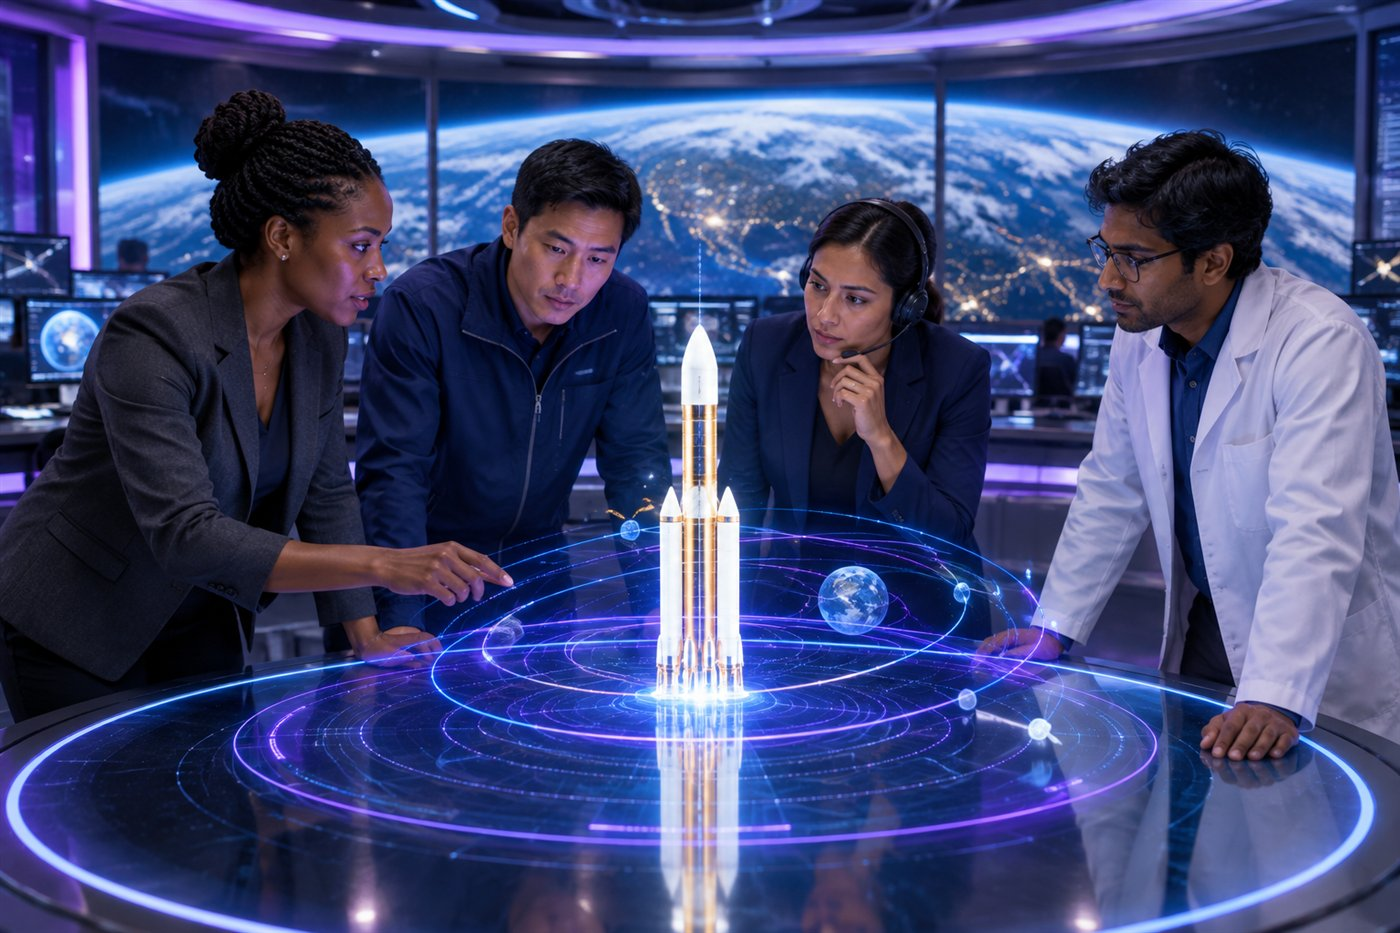
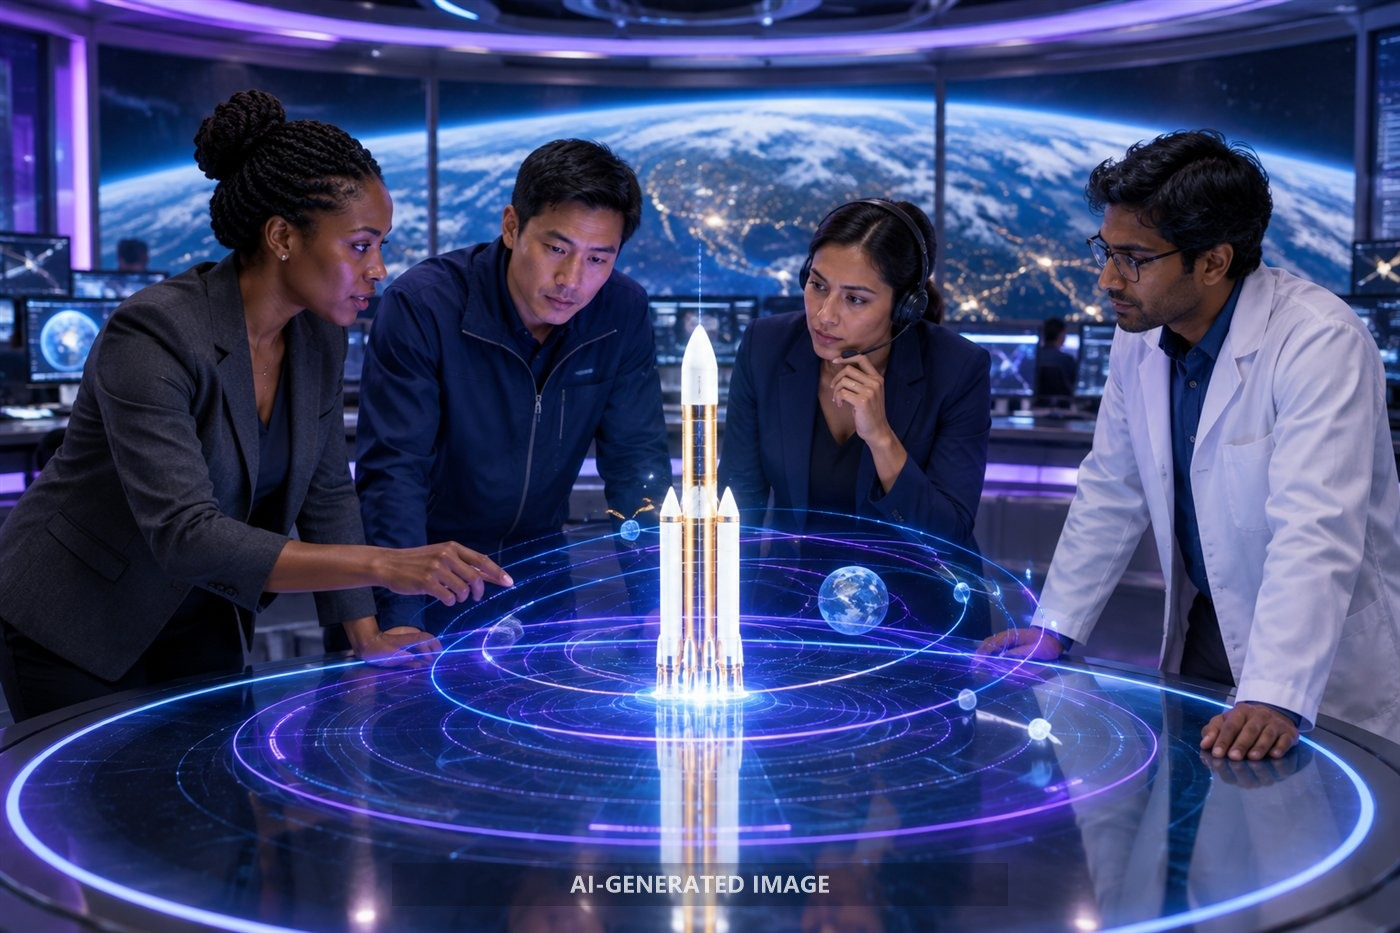
Add subtle image watermarks and credits

Changed region(s): [[0.3993, 0.9014, 0.6143, 0.9946]]

diff --git a/src/styles/crew.css b/src/styles/crew.css
@@ -63,6 +63,20 @@ button.role-card:hover .rc-photo img,
   height: 45%;
   background: linear-gradient(180deg, transparent, rgba(8, 8, 23, 0.95));
 }
+.rc-photo::before,
+.mp-hero::after {
+  content: "AI-generated image";
+  position: absolute;
+  z-index: 3;
+  top: 10px;
+  left: 10px;
+  padding: 3px 6px;
+  border-radius: 4px;
+  background: rgba(8, 8, 23, 0.55);
+  color: rgba(255, 255, 255, 0.8);
+  font: 500 10px var(--font-mono);
+  pointer-events: none;
+}
 .rc-badge {
   position: absolute;
   z-index: 1;
@@ -277,6 +291,11 @@ code {
   border-radius: 50%;
   object-fit: cover;
 }
+.room-chip:has(img)::after {
+  content: "AI image";
+  font-size: 0.6rem;
+  color: rgba(255, 255, 255, 0.7);
+}
 
 /* Crew panels */
 .crew-strip .crew-list,
@@ -381,6 +400,26 @@ code {
   object-fit: cover;
   border: 2px solid var(--rc);
   animation: crew-pulse 1.1s ease-in-out infinite;
+}
+.ai-image-thumb {
+  position: relative;
+  flex-shrink: 0;
+}
+.avatar::after,
+.ai-image-thumb::after {
+  content: "AI image";
+  position: absolute;
+  z-index: 1;
+  left: 50%;
+  bottom: 1px;
+  transform: translateX(-50%);
+  padding: 1px 3px;
+  border-radius: 3px;
+  background: rgba(8, 8, 23, 0.65);
+  color: rgba(255, 255, 255, 0.8);
+  font: 500 8px var(--font-mono);
+  white-space: nowrap;
+  pointer-events: none;
 }
 .wait-head h2 {
   margin: 0 0 4px;

diff --git a/src/ui/screens/missionControl.ts b/src/ui/screens/missionControl.ts
@@ -400,7 +400,7 @@ export function missionControl(): HTMLElement {
           "div",
           { class: "mc-modal waiting", role: "status", style: { "--rc": def.color } as unknown as Record<string, string> },
           h("div", { class: "mc-modal-tag mono" }, "MISSION CONTROL · TIME PAUSED"),
-          h("div", { class: "wait-head" }, h("img", { src: def.portrait, alt: "" }), h("div", null, h("h2", null, p.title), h("p", { class: "muted" }, `${who} owns this call.`, remote ? " Auto-decides in " : "", remote ? countdown : ""))),
+          h("div", { class: "wait-head" }, h("span", { class: "ai-image-thumb" }, h("img", { src: def.portrait, alt: "" })), h("div", null, h("h2", null, p.title), h("p", { class: "muted" }, `${who} owns this call.`, remote ? " Auto-decides in " : "", remote ? countdown : ""))),
           h("p", null, p.body),
           h("div", { class: "mc-options ro" }, ...p.options.map((o) => h("div", { class: "mc-opt ro" }, h("strong", null, o.label), h("span", { class: "muted small" }, o.disabled ?? o.hint)))),
         ),

diff --git a/src/ui/screens/settings.ts b/src/ui/screens/settings.ts
@@ -104,7 +104,7 @@ export function settingsScreen(): HTMLElement {
         h(
           "ul",
           { class: "muted small", style: { paddingLeft: "18px", margin: "8px 0" } },
-          ...["Space data: open government space-science data (public domain)", "Research figures: published research measurements", "Music and sound effects: synthesised in your browser", "Crew voices: your device's own speech engine", "Portraits and artwork: original to AURELIA"].map((t) => h("li", null, t)),
+          ...["Space data: open government space-science data (public domain)", "Research figures: published research measurements", "Music and sound effects: synthesised in your browser", "Crew voices: your device's own speech engine", "Crew portraits and banner: AI-generated images, watermarked", "Code, lessons and text: written with AI assistance (GitHub Copilot)"].map((t) => h("li", null, t)),
         ),
       ),
     ),

diff --git a/index.html b/index.html
@@ -4,6 +4,7 @@
     <meta charset="UTF-8" />
     <meta name="viewport" content="width=device-width, initial-scale=1.0" />
     <meta name="description" content="AURELIA - Embarking on a Radiant Tomorrow. A space exploration and aerospace engineering simulation game." />
+    <meta name="generator" content="Code written with AI assistance (GitHub Copilot). Crew images are AI-generated and watermarked." />
     <title>AURELIA - Embarking on a Radiant Tomorrow.</title>
     <link rel="icon" href="/aurelia-logo.jpg" />
     <link rel="preconnect" href="https://fonts.googleapis.com" />

diff --git a/README.md b/README.md
@@ -6,6 +6,12 @@ AURELIA is a space exploration and aerospace engineering simulation game. Player
 
 Physics is simplified for teaching, and the game labels which values are real measurements and which are game models.
 
+## AI disclosure
+
+- **Code, lessons and text:** written with AI assistance (the GitHub Copilot assistant in VS Code), then run and tested by the team.
+- **Images:** the four crew portraits and the multiplayer banner in `public/crew/` are AI-generated and carry a visible "AI-GENERATED IMAGE" watermark.
+- **Audio:** music and sound effects are synthesised by code in the browser. Crew voices come from the player's own device speech engine.
+
 ## Run it
 
 ```bash
@@ -87,7 +93,7 @@ Real figures come from public-domain government space-science data and published
 - **Live** (Headquarters): the Moon's and Mars's current distance and radio delay from an open ephemeris service, the next asteroid close approaches from an open close-approach service, and recent space weather (latest solar flare, coronal mass ejection and particle-event counts, geomagnetic storms) from open space-weather records. These services don't all allow direct calls from a web page, so the game server fetches them and caches the result for 30 minutes at `GET /api/space`. Each source fails on its own, so partial data is fine. A game-only "activity factor" (0.5 to 2.0) is worked out from the recent flare sizes (see `src/data/weather.ts`); it is a teaching model, not an official measure.
   - Server setting `SPACE_DATA_API_KEY` (optional): your own free key for the open space-data gateway. Without it the server uses the gateway's shared `DEMO_KEY`, which allows only about 30 requests an hour per IP address; the 30 minute cache keeps use far below that. If the gateway does not answer, the server asks the weather service's own server (no key needed).
 - **Reference** (`src/data/real.ts`): published stage data for historic and current heavy launchers, crew-capsule figures, lunar mission campaign milestones, a real mission matching each game mission, technology-readiness and concept-maturity scales, Hohmann transfers and Mars launch windows.
-- **Pictures**: real mission photos come live from an open public-domain image library in the mission briefing and the Academy, each credited and linked. They are fetched when you are online (and remembered for a week); no images are bundled with the game. Public 3D resources are linked, not included.
+- **Pictures**: the crew portraits and multiplayer banner are AI-generated illustrations, with visible labels. Planet views are procedural illustrations rather than photographs.
 - **Mission Academy**: eight short lessons (destination, delta-v, rocket equation, orbits and launch windows, launch day, how missions mature, real missions, and keeping a crew alive), each ending in a quiz. The last one has a radiation dose calculator built on measured dose rates and a published 600 mSv career limit, from public human-research data. Crew life support and fatigue are explained but not simulated.
 - **Guidance**: a next-step banner, a hangar build coach that names the next part, highlights it and can fit it for you (and nudges if you stall), and a spoken launch poll and countdown with explained flight call-outs.
 - The flight physics and part stats are simplified teaching models, and the game says so.
